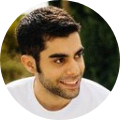
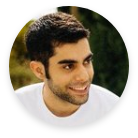
Feat: profiles pagina css afgewerkt

diff --git a/front-end/Profiles.html b/front-end/Profiles.html
@@ -6,13 +6,13 @@
     <meta name="viewport" content="width=device-width, initial-scale=1.0">
     <link rel="stylesheet" href="./style/basic.css">
     <title>Shower Monitor</title>
-    <script src="script/dataHandler.js"></script>
-    <script src="script/app.js"></script>
     <script
       src="https://cdn.socket.io/4.4.1/socket.io.min.js"
       integrity="sha384-fKnu0iswBIqkjxrhQCTZ7qlLHOFEgNkRmK2vaO/LbTZSXdJfAu6ewRBdwHPhBo/H"
       crossorigin="anonymous"
     ></script>
+    <script src="script/dataHandler.js"></script>
+    <script src="script/app.js"></script>
 </head>
 <body>
     <header class="o-row">
@@ -51,40 +51,33 @@
         <div>
             <div class="c-layout c-layout--gutter">
                 <div class="c-layout__item">
-                    <img src="/pictures/Profile picture 1.png" alt="Profile picture 1">
-                    <p>Tibo Messiaen</p>
+                    <img class="c-profile-picture" src="/pictures/Profile picture 1.png" alt="Profile picture 1">
+                    <h2>Tibo Messiaen</h2>
                 </div>
                 <div class="c-layout__item">
-                    <img src="/pictures/Profile picture 1.png" alt="Profile picture 1">
-                    <p>Tibo Messiaen</p>
+                    <img class="c-profile-picture" src="/pictures/Profile picture 2.png" alt="Profile picture 2">
+                    <h2>Tjörven buyse</h2>
                 </div>
                 <div class="c-layout__item">
-                    <img src="/pictures/Profile picture 1.png" alt="Profile picture 1">
-                    <p>Tibo Messiaen</p>
+                    <img class="c-profile-picture" src="/pictures/Profile picture 3.png" alt="Profile picture 3">
+                    <h2>Ibe Demortier</h2>
                 </div>
                 <div class="c-layout__item">
-                    <img src="/pictures/Profile picture 1.png" alt="Profile picture 1">
-                    <p>Tibo Messiaen</p>
+                    <img class="c-profile-picture" src="/pictures/Profile picture 4.png" alt="Profile picture 4">
+                    <h2>Lander Depotter</h2>
                 </div>
                 <div class="c-layout__item">
-                    <img src="/pictures/Profile picture 1.png" alt="Profile picture 1">
-                    <p>Tibo Messiaen</p>
+                    <img class="c-profile-picture" src="/pictures/Profile picture 5.png" alt="Profile picture 5">
+                    <h2>Milan Devos</h2>
                 </div>
                 <div class="c-layout__item">
-                    <img src="/pictures/Profile picture 1.png" alt="Profile picture 1">
-                    <p>Tibo Messiaen</p>
+                    <img class="c-profile-picture" src="/pictures/Profile picture 6.png" alt="Profile picture 6">
+                    <h2>Michiel Deblaere</h2>
                 </div>
               </div>
         </div>
     </main>
     <footer class="c-footer-links">
-        <ul>
-            <li>test</li>
-            <li>test test</li>
-            <li>test</li>
-            <li>test</li>
-            <li>test test test</li>
-        </ul>
     </footer>
     <aside class="c-mobile-nav">
         <div class="c-mobile-nav__bg"></div>

diff --git a/front-end/style/basic.css b/front-end/style/basic.css
@@ -1102,6 +1102,12 @@ a:focus {
     background-color: #fff;
 }
 
+.c-profile-picture{
+    height: 140px;
+    padding-top: 16px;
+    margin-bottom: -12px;
+}
+
 /*------------------------------------*\
   #UTILITIES
 \*------------------------------------*/
